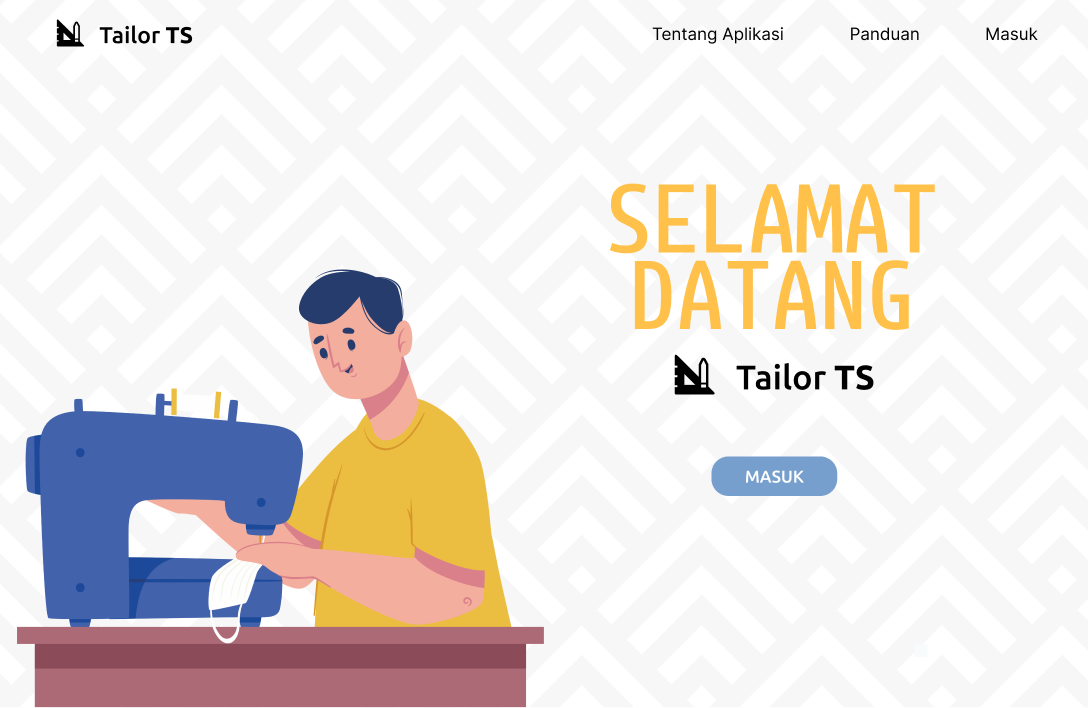
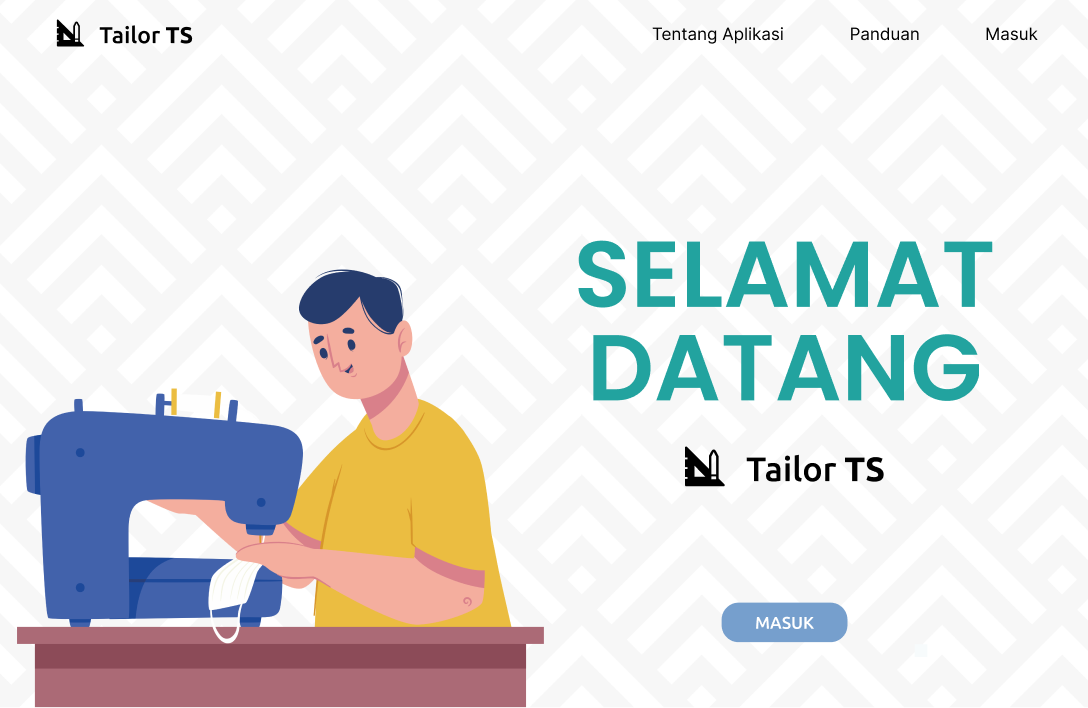
chore: change landing template

Changed region(s): [[0.5312, 0.2486, 0.9375, 0.5904], [0.625, 0.6215, 0.8125, 0.7147], [0.6562, 0.839, 0.7812, 0.9322]]

diff --git a/src/main/java/polije/ppl/tailor/view/LandingPageView.java b/src/main/java/polije/ppl/tailor/view/LandingPageView.java
@@ -43,7 +43,7 @@ public class LandingPageView extends javax.swing.JFrame {
             }
         });
         getContentPane().add(btn_masuk);
-        btn_masuk.setBounds(700, 450, 150, 50);
+        btn_masuk.setBounds(720, 600, 130, 50);
         getContentPane().add(tentang_aplikasi);
         tentang_aplikasi.setBounds(650, 20, 140, 30);
         getContentPane().add(btn_masuk3);
